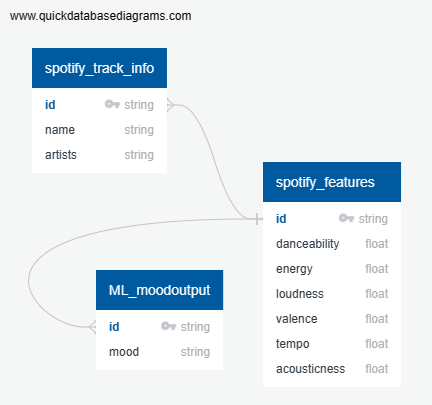
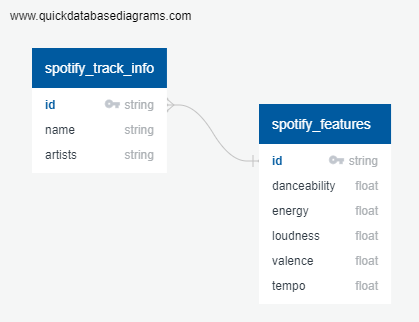
readme updates

diff --git a/README.md b/README.md
@@ -84,14 +84,13 @@ Due to being unable to find a dataset that already has a mood output we had to c
 
 ## Database
 
-PgAdmin and SQLAlchemy were used for our project. Since our dataset is relatively straightforward, we only have 2 tables that are joined using id (song id) and 1 additional table to hold the output of the machine learning model. 
+PgAdmin and SQLAlchemy were used for our project. Since our dataset is relatively straightforward, we only have 2 tables that are joined using id (song id). 
 
 - spotify_track_info lists the id, name of the song, and the artist(s).
 - spotify_features lists the id and the chosen attributes: energy, loudness, valence, tempo, danceability and acousticness.
-- ML_moodoutput lists the id and the machine learning output.
 
 #### *Entity Relationship Diagram (ERD)*
-![database_ERD](https://user-images.githubusercontent.com/108373151/208558660-851765ab-123e-4f85-bc84-f1366517b6d2.png)
+![database_ERD](https://user-images.githubusercontent.com/108373151/209034139-43a23ecd-0a36-4432-9584-ebd0983e449e.png)
 
 Due to size limitations of our GitHub repository, the entire file of 1.2M+ songs in our 2 tables format was unable to be loaded in .csv format. Therefore, a sample table was created to show the top 100,000 songs sorted ascending by song id.
 
